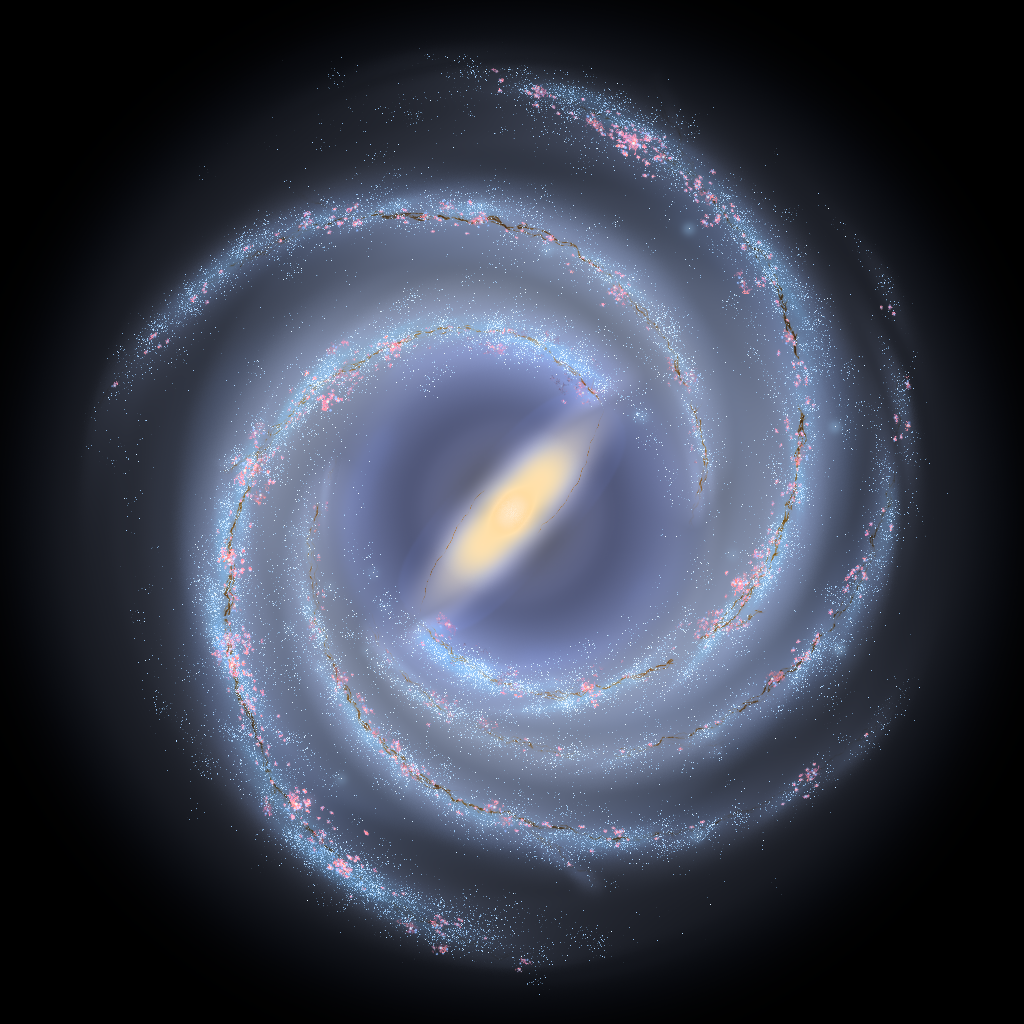
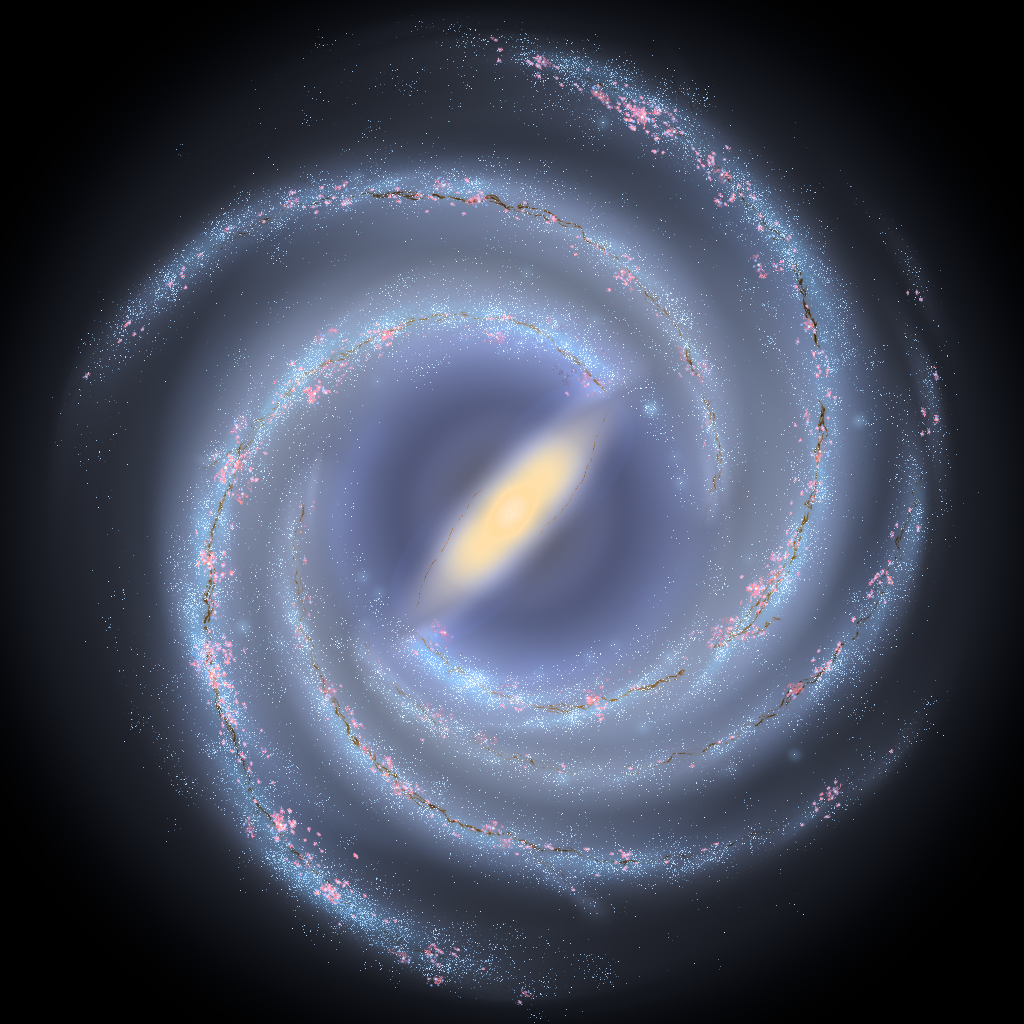
S107 close docs refreshed: the re-captured frames, the yardstick on them, the independent review in D278
docs/pictures/s107 now holds the frames re-captured after the lead's two last values
(framing.scale 0.84 on the Milky Way, grade.saturation 1.15 on NGC 4414): sha256 803204f7...
and 9f8b2f3f.... The yardstick re-measured on them in READING_PICTURES Part S107 and D278
(the Milky Way's radius back at 411 px with the colour step still -0.067: still not
understood). The second reader's section says which points were acted on and whether they
are met; the soft blue blobs traced to the arm grain's sprite, not mended. D278 carries the
independent review's paragraph; BRIEF and BUILD_VIII section 6 the reviewer's cost lines.

Changed region(s): [[0.0625, 0.0312, 0.9375, 1.0], [0.875, 0.2188, 0.9062, 0.3125]]

diff --git a/docs/DECISIONS.md b/docs/DECISIONS.md
@@ -19254,7 +19254,34 @@ regions' veil (premultiplied blending under `knots.place` 1): a drawing choice s
 0 is the plain additive light. (27) The illustrative frames remain unpinned; S107's two frames are committed as plain
 pictures in `docs/pictures/s107/`. (28) #238 and #239 still wait for the owner's word; nothing was entered.
 
-**The independent review:** (the lead adds this)
+**The independent review** (an Opus reviewer that built none of it, on 7c6c394 — before NGC 4414's third pass and the
+lead's last values, which the lead read itself): **no blocker.** (i) The physical look against `main`'s OWN build
+(`git archive main frontend interface`, built and served beside the branch's): eight states byte-identical (both
+templates at the default stand, a close stand, the stars mode, an exposure off the default) and seven swap steps
+frame-identical at rest (land, two template switches, physics only on and off, a reroll and Generate, the mode switched
+while generating); under the physical look no illustrative worker is ever created and no job posted; the same number
+of canvases on both builds. (ii) Rule D1 under the illustrative look: the sliders' probe ten times over, 8,253 frames
+sampled after 20 template switches, 0 showing another galaxy's map or sparkle; a harsher probe of the reviewer's own (a
+template switch, a double switch within 60 ms, a look switch off and on, a reroll and Generate, a slider moved during a
+landing, each started while a map job was in flight), 0 wrong in three passes, and after each the picture at rest
+byte-identical to a fresh page load at the same values; an independent check by the map's uploaded bytes on NGC 4414
+never showed the Milky Way's map. (iii) **One defect found and fixed by the reviewer** (1139310): the map client kept up
+to 64 superseded 7.2 MB planes alive (a strong map of seeded values); the ArrayBuffer memory after ten look round
+trips, five template round trips and forty lane moves was 661 MB before the fix, 215 MB after, 208 MB on `main`; a test
+added. (iv) Reported and then mended by builder F: a map worker that fails froze the layer (an answered error was never
+retried and left "rebuilding" on; an uncaught throw fell back to the main thread for the page's life with no message; a
+silent death left the map never updating), now a watchdog, a new worker, a fallback build so the picture always
+arrives, and a visible line in the panel; and NGC 4414's thread sliders (`floc.filSpacing`, `floc.netScale`) still
+rebuilt the plane and re-uploaded 28.8 MB while its threads are off, and now rebuild nothing. (v) Captures run to run:
+each of the six look frames and two custom stands 15 times, one distinct file each; the one black frame and the
+wandering stand two builders saw were not reproduced. (vi) Cost: the settled march's GPU time the same as `main`'s
+(the Milky Way illustrative 36 ms, NGC 4414 132 ms; physical 23 and 32 ms); the slider stalls' longest frame gap 17 to
+50 ms against `main`'s 277 to 379 ms; the picture complete 0.35 to 3 s after a move; the Milky Way's cold first load
+15.5 s against `main`'s 14.1 s (the server's share dominates), warm 2.1 s against 2.3 s. (vii) The `glGetProgramiv`
+burst: 0 lines on the branch, 12 on `main` in the same live probe. (viii) Read and found sound: the regions' veil
+blending (no sky pixel darker or brighter by more than 3 of 255), clamped divisions, bounded loops, every plane memo
+named, nothing under `model/`, the pinned fragment or `docs/pictures` touched before the close's own pictures. For
+information: the worker's bundle is 561 kB; the plane-memo test reaches only the paths of the two templates' defaults.
 
 **The frames beside the goals** (`READING_PICTURES.md` Part S107). **The Milky Way** is a balanced spiral: two major
 arms leave the bar's ends and open outward, with fainter lesser arms between; the arms a patchy pale blue-white grain on
@@ -19270,31 +19297,40 @@ inner disc, blue-white star clouds at the rim, field stars; close up, dark filam
 crisp grainy star field, no brushing. Still unlike it: the lanes lighter and less prominent than the photograph's at
 full frame; near the nucleus they read a little like parallel fingerprint stripes; no broad pale tan veils inside the
 lanes; the near-side rim still shows a faint dark smeared texture close up; the dark fraction 0.185 against 0.157. A
-second reader (the documents' writer, who built none of it) adds what the lead's words do not: the Milky Way's disc
-sits smaller in the frame than S106's (the tool's radius 386 px against 415), and its close view carries many soft
-round blue blobs between the arms, like out-of-focus lights, that the goal has not; NGC 4414's disc is an even
-grey-white from the golden centre to the rim, where the photograph's outer disc dims and turns blue, and its close view
-is a uniform sand-like grain with little colour between the lanes (`READING_PICTURES.md` section 36). **Plainly: S106
+second reader (the documents' writer, who built none of it) added what the lead's words do not, and the lead acted
+on it before the final capture: the Milky Way's disc sat smaller in the frame than S106's (the tool's radius 386 px
+against 415), now met with `framing.scale` 0.9 to 0.84 (about 88 % of the frame again, 411 px); NGC 4414 read greyer
+than the photograph, an even grey-white to the rim where the photograph's outer disc dims and turns blue, now met in
+part with `grade.saturation` 1 to 1.15 (warmer in the middle; the rim still grey-white; 1.25 measured a colour step
+further from the goal's); the many soft round blue blobs between the Milky Way's arms close up, like out-of-focus
+lights, were traced by the lead and **not mended**: they are the arm grain's own points (they vanish with
+`arms.sparkle` 0 and stay with every other sparkle, the regions and the clustered young light off), whose soft sprite
+reads as a disc at close range (`READING_PICTURES.md` section 36). **Plainly: S106
 made both frames their goal's composition; S107 makes both close-ups read as their goal's close-ups. What remains is
 strength and balance (the owner's sliders can reach most of it) and a few forms.**
 
 The yardstick (`tools/goal_metrics.py`, re-measured on the two committed frames; goal / S106 / S107): the Milky Way
 (`--axis-ratio 1`) Δ(B−R) −0.354 / −0.259 / −0.067 (inner and outer B−R −0.459 / −0.813 goal, −0.429 / −0.688 S106,
-−0.642 / −0.709 S107), A₂ 0.194 / 0.125 / 0.163, A₃ 0.059 / 0.133 / 0.040, arm over inter-arm 1.83 / 2.14 / 2.13, dark
-fraction 0.0066 / 0.0081 / 0.0060, slope −1.99 / −2.38 / −1.77; NGC 4414 (the tool's geometry) Δ(B−R) −0.274 / −0.491 /
-−0.371, A₂ 0.068 / 0.069 / 0.042, arm over inter-arm 2.72 / 1.95 / 1.63, dark fraction 0.157 / 0.229 / 0.185, slope
-−2.09 / −1.83 / −2.25. Nearer: the Milky Way's A₂ and A₃ (m = 2 again the strongest), its dark fraction and slope;
-NGC 4414's dark fraction and colour step. **Further:** the Milky Way's colour step (−0.067 against −0.354: the step
-between the tool's inner and outer annuli has shrunk although the sampled patches match the goal's hues; **not
-understood**); NGC 4414's A₂ and arm contrast fell (the broad bands carried them; the lanes are now the photograph's
-kind but lighter and less prominent).
+−0.637 / −0.704 S107), A₂ 0.194 / 0.125 / 0.164, A₃ 0.059 / 0.133 / 0.039, arm over inter-arm 1.83 / 2.14 / 2.11, dark
+fraction 0.0066 / 0.0081 / 0.0060, slope −1.99 / −2.38 / −1.75; NGC 4414 (the tool's geometry) Δ(B−R) −0.274 / −0.491 /
+−0.425 (inner and outer +0.508 / +0.234 goal, +0.629 / +0.138 S106, +0.722 / +0.297 S107), A₂ 0.068 / 0.069 / 0.042,
+arm over inter-arm 2.72 / 1.95 / 1.64, dark fraction 0.157 / 0.229 / 0.185, slope −2.09 / −1.83 / −2.25. Nearer: the
+Milky Way's A₂ and A₃ (m = 2 again the strongest), its dark fraction and slope; NGC 4414's dark fraction, colour step
+and outer colour. **Further:** the Milky Way's colour step (−0.067 against −0.354: the step between the tool's inner
+and outer annuli has shrunk although the sampled patches match the goal's hues; **not understood**: the first
+capture, with the disc smaller and the tool's radius 386 px, read −0.067 too, so the disc's size was not the reason);
+NGC 4414's inner colour (+0.722, further from the goal's +0.508 than S106's +0.629: the saturation's gain went mostly
+into the centre); NGC 4414's A₂ and arm contrast fell (the broad bands carried them; the lanes are now the
+photograph's kind but lighter and less prominent).
 
 **Not mended, carried in `BRIEF.md` and `BUILD_VIII.md` section 6.** (a) #238's physical fix and #239, the owner's,
 and the OK to enter both. (b) The Milky Way: the inner arms hugging the bar's ends, the lesser arms' strength against
 the two-armed measure, the bar's hue and its end clusters, finer redder lanes, the colour step's measure. (c) NGC 4414:
 lanes as prominent as the photograph's without the dark fraction rising, pale veils inside them, the fingerprint
-stripes near the nucleus, the rim's faint smear. (d) The latency: 0.6 to 1.1 s from a settled map slider to the
-picture (the debounce and the worker); the arms' planes about 0.3 s. (e) A third template would want its own preset.
+stripes near the nucleus, the rim's faint smear, the outer disc's grey-white. (d) The Milky Way's soft blue blobs close
+up (the arm grain's own soft sprite: a sharper sprite, or a size that does not grow at close range). (e) The latency:
+0.6 to 1.1 s from a settled map slider to the picture in the builder's measure (the debounce and the worker), 0.35 to
+3 s from a move in the reviewer's; the arms' planes about 0.3 s. (f) A third template would want its own preset.
 
 **What did not move.** No byte under `model/galaxy` (the hash 5a862a70d3760c426ca51c2cffa2b0c2); the pinned fragment
 unchanged; no committed frame, `frames.json` or thumbnail; the picture test's nine physical frames byte for byte at
@@ -19302,5 +19338,6 @@ every builder's hand-back and on the merged head; the register (115 open = 50 + 
 reserved, not entered; `tests/test_audit.py` untouched); `batch-r`, `batch-q-lanes`, `q-231` untouched and unmerged.
 Next: #240 (#238 and #239 reserved), D279. The two frames of this close, the merged head's capture:
 `docs/pictures/s107/milky_way-illustrative.png` (sha256
-c329822aab71b9f9f09f792c873073b625c5236587f98d39a691cb12f8711e3f) and `docs/pictures/s107/ngc_4414-illustrative.png`
-(sha256 10a8bb1ad5bd3e9041ae8de5f15d4c25f4c1851874c90a547ba5006109ba31ce).
+803204f71cfbabab43102652380a0cec10b87daf8c85181b88a18b0d497d2e4b) and `docs/pictures/s107/ngc_4414-illustrative.png`
+(sha256 9f8b2f3f1ccae6fd6c2aa50d4e2fb86e6a07e45a0c428381788530a99e7cb03c), re-captured after the lead's two last
+values (`framing.scale` 0.84 on the Milky Way, `grade.saturation` 1.15 on NGC 4414).

diff --git a/docs/READING_PICTURES.md b/docs/READING_PICTURES.md
@@ -817,7 +817,11 @@ Way's skeleton opens outward with its lesser arms spaced evenly between the majo
 regions are bunched into ragged complexes under a veil, its lanes split and rejoin, and its colour was matched to the
 goal patch by patch. NGC 4414's dust is a field of many narrow broken lanes drawn by the march's mesh, the map's threads
 off; the brushing S106's second reader saw (section 32) was traced to the layer's own threads and grain, not to the
-model's star contrast as the lead had guessed; the rim's fringe and a white patch right of the nucleus are gone.
+model's star contrast as the lead had guessed; the rim's fringe and a white patch right of the nucleus are gone. After
+a first reading of the frames by the documents' writer (section 36), the lead changed two values and re-captured:
+the Milky Way's `framing.scale` 0.9 to 0.84 (the disc across about 88 % of the frame again, the corners black) and
+NGC 4414's `grade.saturation` 1 to 1.15 (1.25 was tried and measured a colour step further from the goal's). The
+frames committed and measured below are the re-captured ones.
 
 ## 34. The yardstick on S107's frames
 
@@ -831,22 +835,25 @@ radius, in each picture's own pixels (the goals are larger pictures than the 102
 |---|---|---|---|---|---|---|---|---|---|
 | GOAL `milky_way` | −0.354 (−0.459 / −0.813) | 0.052 | 0.194 | 0.059 | 1.83 | 0.0066 | −1.99 | 1 (set) | 2006 |
 | illustrative, S106 | −0.259 (−0.429 / −0.688) | 0.076 | 0.125 | 0.133 | 2.14 | 0.0081 | −2.38 | 1 (set) | 415 |
-| **illustrative, S107** | −0.067 (−0.642 / −0.709) | 0.053 | 0.163 | 0.040 | 2.13 | 0.0060 | −1.77 | 1 (set) | 386 |
+| **illustrative, S107** | −0.067 (−0.637 / −0.704) | 0.052 | 0.164 | 0.039 | 2.11 | 0.0060 | −1.75 | 1 (set) | 411 |
 | GOAL `ngc_4414` (the tool's geometry) | −0.274 (+0.508 / +0.234) | 0.099 | 0.068 | 0.055 | 2.72 | 0.157 | −2.09 | 0.512 | 664 |
 | illustrative, S106 | −0.491 (+0.629 / +0.138) | 0.083 | 0.069 | 0.043 | 1.95 | 0.229 | −1.83 | 0.506 | 427 |
-| **illustrative, S107** | −0.371 (+0.631 / +0.260) | 0.079 | 0.042 | 0.037 | 1.63 | 0.185 | −2.25 | 0.504 | 399 |
+| **illustrative, S107** | −0.425 (+0.722 / +0.297) | 0.079 | 0.042 | 0.037 | 1.64 | 0.185 | −2.25 | 0.504 | 399 |
 
-Nearer: the Milky Way's A₂ (0.125 to 0.163 against 0.194) and A₃ (0.133 to 0.040 against 0.059: m = 2 is again its
-strongest harmonic, as the goal's is), its A₁, its dark fraction (0.0060 against 0.0066) and its slope (−1.77 against
+Nearer: the Milky Way's A₂ (0.125 to 0.164 against 0.194) and A₃ (0.133 to 0.039 against 0.059: m = 2 is again its
+strongest harmonic, as the goal's is), its A₁, its dark fraction (0.0060 against 0.0066) and its slope (−1.75 against
 −1.99, now a little short of the goal's where S106's was past it); NGC 4414's dark fraction (0.229 to 0.185 against
-0.157), its colour step (−0.371 against −0.274) and its outer colour (+0.260 against +0.234). Further: **the Milky
-Way's colour step** (−0.067 against −0.354, from −0.259): its inner annulus is now bluer than the goal's (−0.642
-against −0.459) while its outer is redder (−0.709 against −0.813), although MW3's patch-by-patch table matched the
-goal's hues; **not understood** (BUILD_VIII section 6 item 2: find what the tool's annuli see). The tool's radius
-estimate for the Milky Way frame fell from 415 to 386 px, so the annuli lie at other places on the disc than at S106;
-whether that explains the step was not measured. NGC 4414's A₂ (0.069 to 0.042 against 0.068) and its arm contrast
-(1.95 to 1.63 against 2.72) fell: the broad bands carried them, and the narrow lanes are lighter and less prominent
-than the photograph's. The Milky Way's arm contrast did not move (2.13 against 1.83).
+0.157), its colour step (−0.491 to −0.425 against −0.274) and its outer colour (+0.297 against +0.234, from +0.138).
+Further: **the Milky Way's colour step** (−0.067 against −0.354, from −0.259): its inner annulus is now bluer than the
+goal's (−0.637 against −0.459) while its outer is redder (−0.704 against −0.813), although MW3's patch-by-patch table
+matched the goal's hues; **not understood** (BUILD_VIII section 6 item 2: find what the tool's annuli see). The first
+capture of the close, with the disc smaller in the frame, gave the tool a radius of 386 px and the same step, −0.067;
+the re-capture brings the radius back to 411 px (S106's 415) and the step is still −0.067, so the smaller disc was not
+the reason. NGC 4414's inner colour (+0.722 against +0.508) is further from the goal's than S106's (+0.629): the
+higher saturation warms the centre more than the rim (the first capture at saturation 1 read −0.371, +0.631 / +0.260).
+NGC 4414's A₂ (0.069 to 0.042 against 0.068) and its arm contrast (1.95 to 1.64 against 2.72) fell: the broad bands
+carried them, and the narrow lanes are lighter and less prominent than the photograph's. The Milky Way's arm contrast
+did not move (2.11 against 1.83).
 
 ## 35. What a viewer sees, in the lead's words (the lead looked at the final frames and close-ups beside both goals)
 
@@ -870,7 +877,7 @@ texture close up; the dark fraction 0.185 against 0.157.
 goal's close-ups. What remains is strength and balance (the owner's sliders can reach most of it) and a few forms
 (`BUILD_VIII.md` section 6).
 
-The frames: `docs/pictures/s107/` (committed; sha256 c329822a... and 10a8bb1a..., in D278). The close-ups and the
+The frames: `docs/pictures/s107/` (committed; sha256 803204f7... and 9f8b2f3f..., in D278). The close-ups and the
 builders' sheets are local, under `docs/goals/` in the session's worktrees (never committed).
 
 ## 36. A second reader (the documents' writer, who built none of it)
@@ -881,17 +888,29 @@ lead's words: the Milky Way's arms now leave the bar's ends and open outward ins
 are bunched clumps and ragged complexes, no longer beads on a string; its lanes braid; the bar is warmer and more
 orange than the goal's cream; the zone round the bar is an empty lavender; NGC 4414's brushing is gone, its lanes
 narrow, broken and lighter than the photograph's, and near the nucleus they run as concentric fingerprint stripes; its
-near-side rim close up is a dark smear. What the lead's words do not say:
+near-side rim close up is a dark smear. What the lead's words do not say, first read on the close's first capture and
+read again on the re-captured frames committed here:
 
-- **The Milky Way's disc sits smaller in the frame than S106's**: it spans roughly 80 % of the frame's width where
-  S106's spanned nearly 90 %, with more dark navy margin, and the tool's radius estimate fell from 415 to 386 px.
+- **The Milky Way's disc sat smaller in the frame than S106's** (about 80 % of the frame's width against nearly 90 %;
+  the tool's radius 386 px against 415). **Acted on and met:** the lead set `framing.scale` 0.84; in the committed
+  frame the disc spans about 88 % of the width again with black corners, and the tool reads 411 px.
 - **The Milky Way's close view carries many soft round blue blobs** between the arms, like out-of-focus lights; the
-  goal has nothing of the kind, and they read as the frame's most artificial mark at that range.
+  goal has nothing of the kind, and they read as the frame's most artificial mark at that range. **Traced by the lead
+  by capture and not mended:** they vanish with `arms.sparkle` 0 and stay with `arms.sparklebig` 0, `knots.sparkle` 0,
+  the regions off, the clustered young light off (`clumpsInMarch` false) and `arms.sparklerange` cut from 60 to 10:
+  they are the arm grain's own points, whose sprite is soft and reads as a disc at close range. The close-up beside
+  the re-captured frames still shows them unchanged; left for the next session (a sharper sprite, or a size that does
+  not grow at close range).
 - **The Milky Way's lanes close up zigzag** in sharp short kinks, darker and more opaque than the goal's soft threads.
-- **NGC 4414's disc is an even grey-white from the golden centre to the rim**: the photograph's outer disc dims and turns
-  blue-grey with darker dust between the clouds, so ours reads paler and flatter, with a more abrupt edge.
-- **NGC 4414's close view is a uniform sand-like grain** with little colour in it: the light between the lanes is grey,
-  neither the photograph's warm inner tan nor its blue-white clumps, and a few pale round blotches sit in it.
-- **Worse than S106**, besides the measures in section 34: NGC 4414's warm inner disc is paler and less saturated, and
-  its dust no longer carries the brown warmth across the middle of the disc that S106's (combed) threads gave, so the
-  whole disc reads greyer than both S106's and the photograph's.
+  Not acted on; unchanged.
+- **NGC 4414's disc reads greyer than the photograph**: an even grey-white from the golden centre to the rim, where the
+  photograph's outer disc dims and turns blue-grey with darker dust between the clouds, so ours reads paler and
+  flatter, with a more abrupt edge. **Acted on in part:** `grade.saturation` 1.15. In the re-captured frame the middle of
+  the disc is a warmer tan and the close view's grain carries some cream, so it reads less grey; **not met**: the outer
+  disc is still a bright grey-white to an abrupt edge rather than dimming and turning blue, and the extra saturation
+  went mostly into the centre (inner B−R +0.631 to +0.722, further from the goal's +0.508; the step −0.371 to −0.425,
+  further from −0.274).
+- **NGC 4414's close view is a uniform sand-like grain**, with a few pale round blotches in it: the light between the
+  lanes is evenly grained, neither the photograph's crisp clumps nor its broad smooth veils. Warmer now, still uniform.
+- **Worse than S106**, besides the measures in section 34: NGC 4414's dust no longer carries the strong brown warmth
+  across the middle of the disc that S106's (combed) threads gave.

diff --git a/docs/BRIEF.md b/docs/BRIEF.md
@@ -4,10 +4,11 @@
 close-ups, and no slider freezes the view any more.** Under the **illustrative look** (the default) the Milky Way is a
 balanced spiral opening outward from the bar's ends, patchy pale blue-white arms on a periwinkle disc, ragged red-pink
 regions in bunches and complexes on braided brown lanes, a pale cream bar. NGC 4414 is a flocculent disc of many narrow
-broken dust lanes round a bright nucleus in a golden inner disc, star clouds at the rim, no brushing. **Still far:** the Milky Way's inner arms do not hug the bar's ends (an empty lavender zone),
-its bar too orange, its lanes browner and broader than the goal's threads, soft round blue blobs between the arms close
-up (a second reader's); NGC 4414's lanes lighter and less prominent than the photograph's, fingerprint stripes near the
-nucleus, the disc an even grey-white to the rim where the photograph's dims and turns blue (a second reader's). Frames:
+broken dust lanes round a bright nucleus in a golden inner disc, star clouds at the rim, no brushing. **Still far:**
+the Milky Way's inner arms do not hug the bar's ends (an empty lavender zone), its bar too orange, its lanes browner
+and broader than the goal's threads, soft round blue blobs between the arms close up (the arm grain's soft sprite,
+traced, not mended); NGC 4414's lanes lighter and less prominent than the photograph's, fingerprint stripes near the
+nucleus, the outer disc grey-white to the rim where the photograph's dims and turns blue (a second reader's). Frames:
 `docs/pictures/s107/`; words and numbers: `READING_PICTURES.md` Part S107. The physical look is unchanged.
 
 ## TWO THINGS ONLY YOU CAN RULE, AND THE OK TO ENTER THEM (#238, #239; nothing waits on them)
@@ -41,10 +42,10 @@ dust the mesh on narrow lanes, the threads off (S106's pick reversed). 24. `arms
 lesser arms at 0.7 of the majors. 26. the regions' veil. 27. S107's frames plain pictures. 28. #238 / #239 still yours.
 
 ## Known defects and what the next session does (`BUILD_VIII.md` section 6)
-- **MENDED at S107:** the slider stalls (every move's longest frame gap now 17-33 ms; the map built in a worker) and
-  the `glGetProgramiv` warnings (a second canvas per landing; one canvas now). Left: 0.6-1.1 s from a settled map
-  slider to the picture. NGC 4414's brushing was the layer's own threads and grain (the lead had guessed the model).
-  Next: your tuning, your rulings; then the forms listed under "Still far" above.
+- **MENDED at S107:** the slider stalls (longest frame gap 17-50 ms against `main`'s 277-379; the map built in a
+  worker; memory as `main`'s after the reviewer's fix) and the `glGetProgramiv` warnings (a second canvas per landing;
+  0 lines against `main`'s 12). Left: the picture completes 0.35-3 s after a move. NGC 4414's brushing was the layer's
+  own threads and grain (the lead had guessed the model). Next: your tuning, your rulings; then "Still far" above.
 
 ## Parked, waiting on your word (nothing here touched them)
 `batch-r` 699629c (S104, D274: green, stacked on `batch-q`, one stage-B re-read of `test_s100_bar_length` owed; it

diff --git a/docs/BUILD_VIII.md b/docs/BUILD_VIII.md
@@ -123,12 +123,15 @@ strength and balance, most of it within the owner's sliders, and a few forms; th
    round the bar); the lesser arms' strength against the two-armed measure (ruling 25); the bar's hue (36 against the
    goal's 46) and its end clusters; finer, redder lanes (ours hue 30 against 11, broader, zigzagging close up); the
    colour step's measure (Δ(B−R) −0.067 against −0.354 although the sampled patches match: find what the tool's
-   annuli see). The second reader's: the disc sits smaller in the frame than S106's, and the close view carries soft
-   round blue blobs between the arms that the goal has not.
+   annuli see; not the disc's size in the frame, which was restored with the step unchanged). The soft round blue blobs
+   between the arms close up (a second reader's), traced by the lead to the arm grain's own soft sprite
+   (`arms.sparkle`): a sharper sprite, or a size that does not grow at close range.
 3. **NGC 4414**: lanes as prominent as the photograph's without the dark fraction rising (0.185 against 0.157; A₂
-   0.042 and arm contrast 1.63 against 0.068 and 2.72); pale tan veils inside them; the fingerprint stripes near the
-   nucleus; the rim's faint smear. The second reader's: the disc an even grey-white to the rim where the photograph's
-   outer disc dims and turns blue, and the close view a uniform grey grain with little colour.
-4. **Latency**: 0.6 to 1.1 s from a settled map slider to the picture (the 250 ms debounce and the worker); the arms'
-   planes about 0.3 s.
+   0.042 and arm contrast 1.64 against 0.068 and 2.72); pale tan veils inside them; the fingerprint stripes near the
+   nucleus; the rim's faint smear. The second reader's: the outer disc a bright grey-white to an abrupt edge where the
+   photograph's dims and turns blue (`grade.saturation` 1.15 warmed the middle, not the rim, and moved the inner
+   colour further from the goal's), and the close view a uniform grain.
+4. **Latency**: 0.35 to 3 s from a move to the complete picture (the reviewer's measure; 0.6 to 1.1 s from a settled
+   map slider in the builder's: the 250 ms debounce and the worker); the arms' planes about 0.3 s. The view itself no
+   longer stalls (longest frame gap 17 to 50 ms).
 5. **A third template** would want its own preset (a skeleton or a plane-style network).
